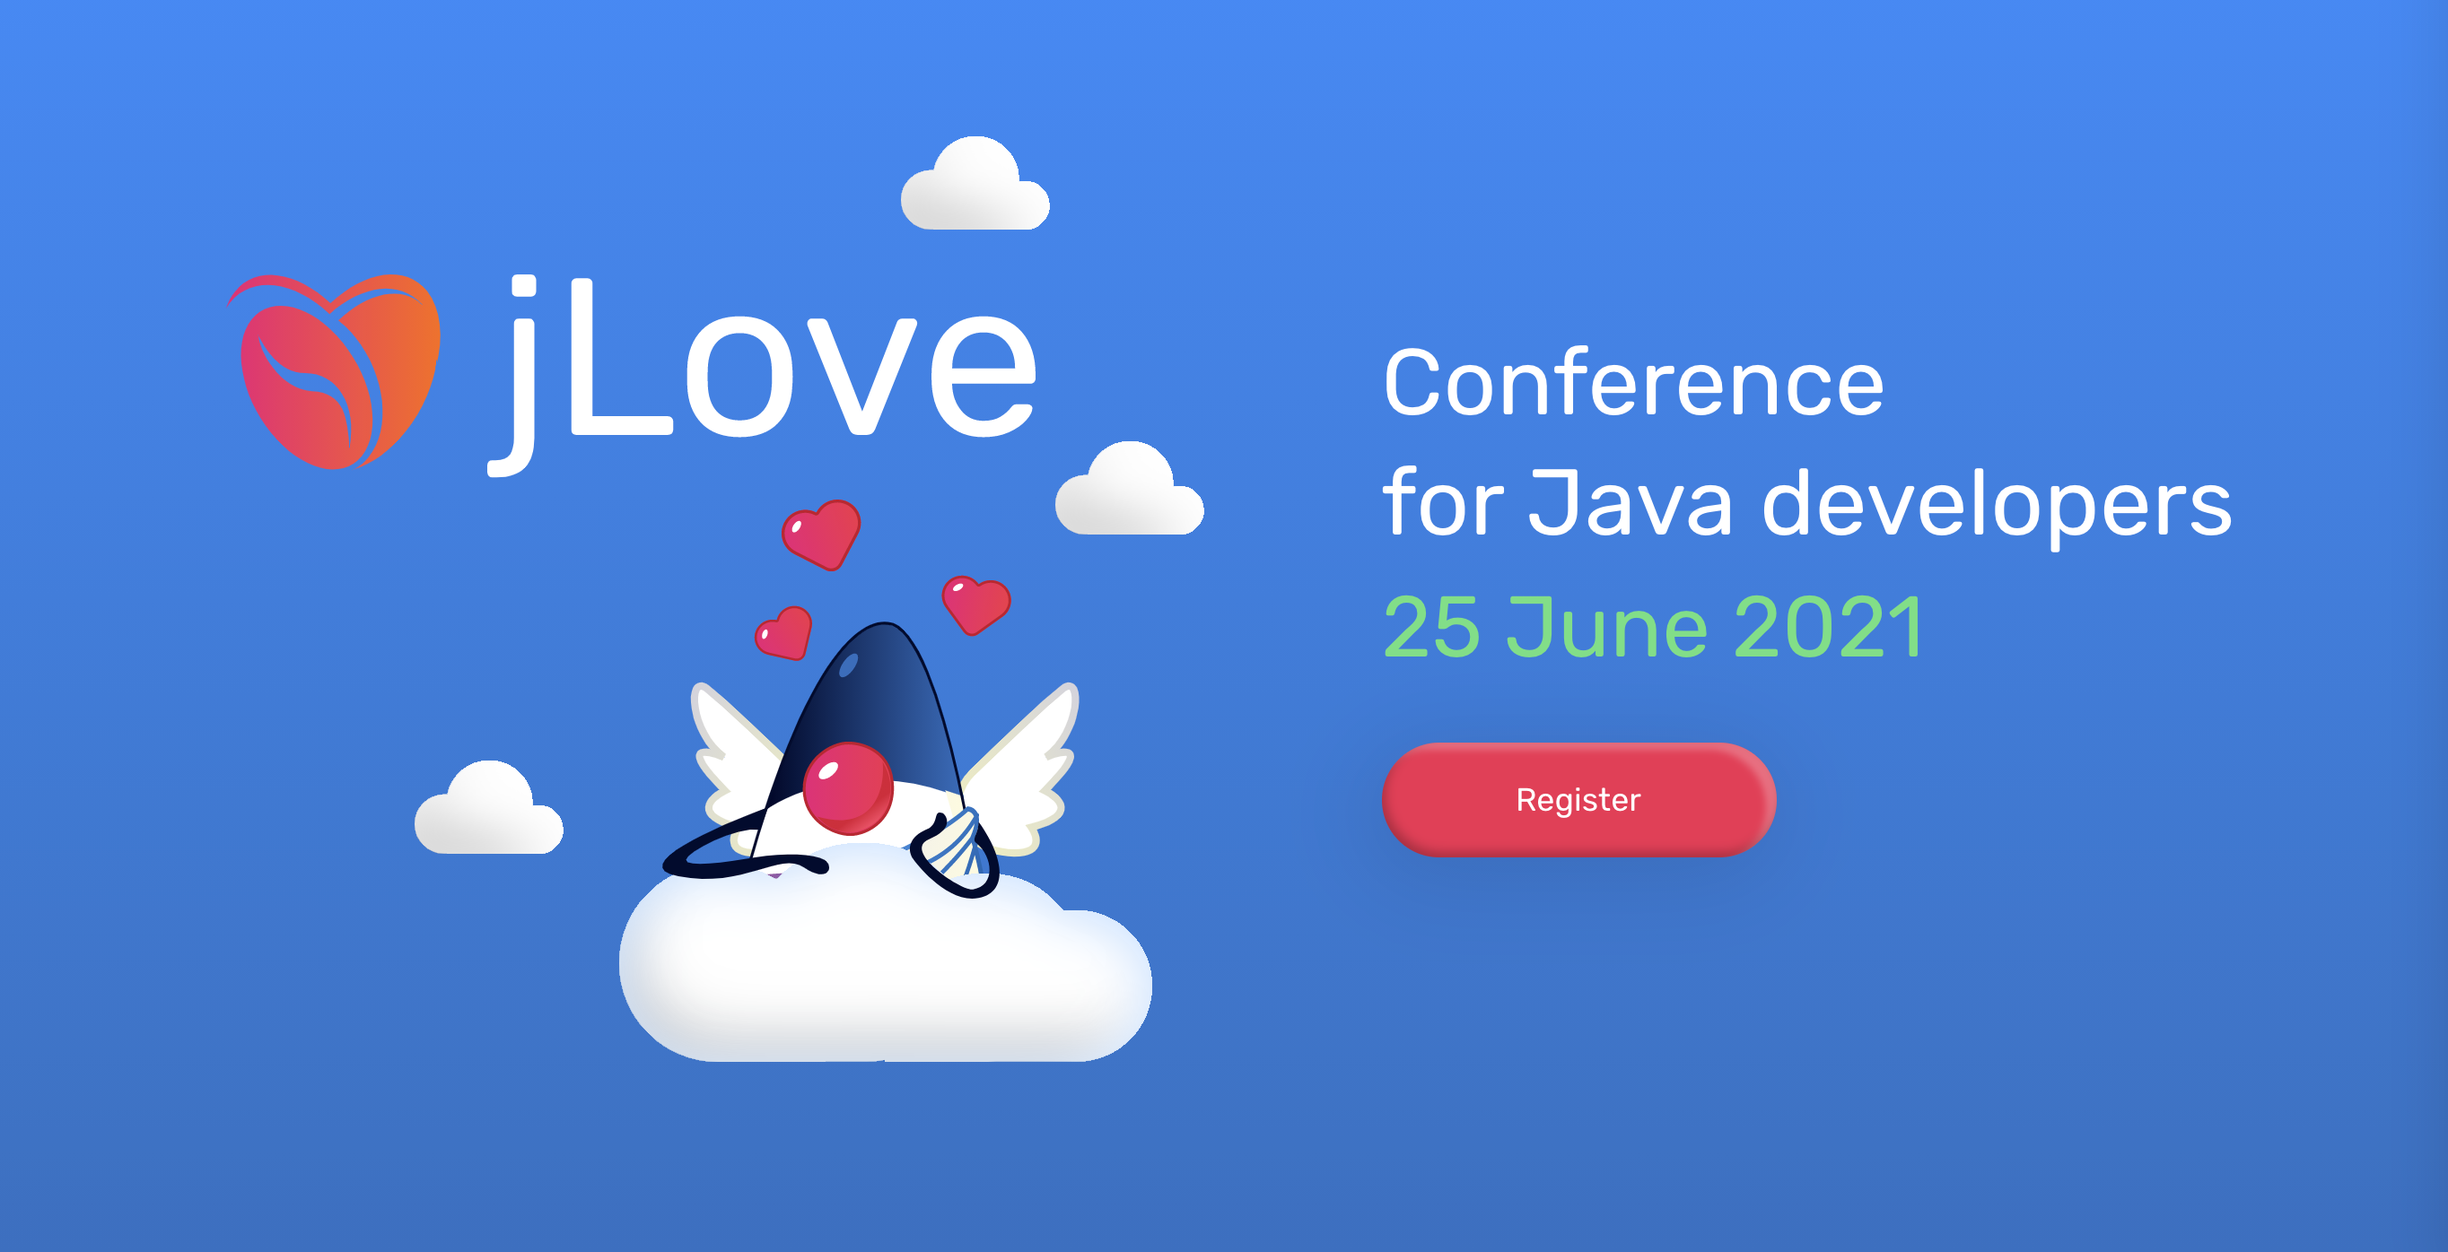
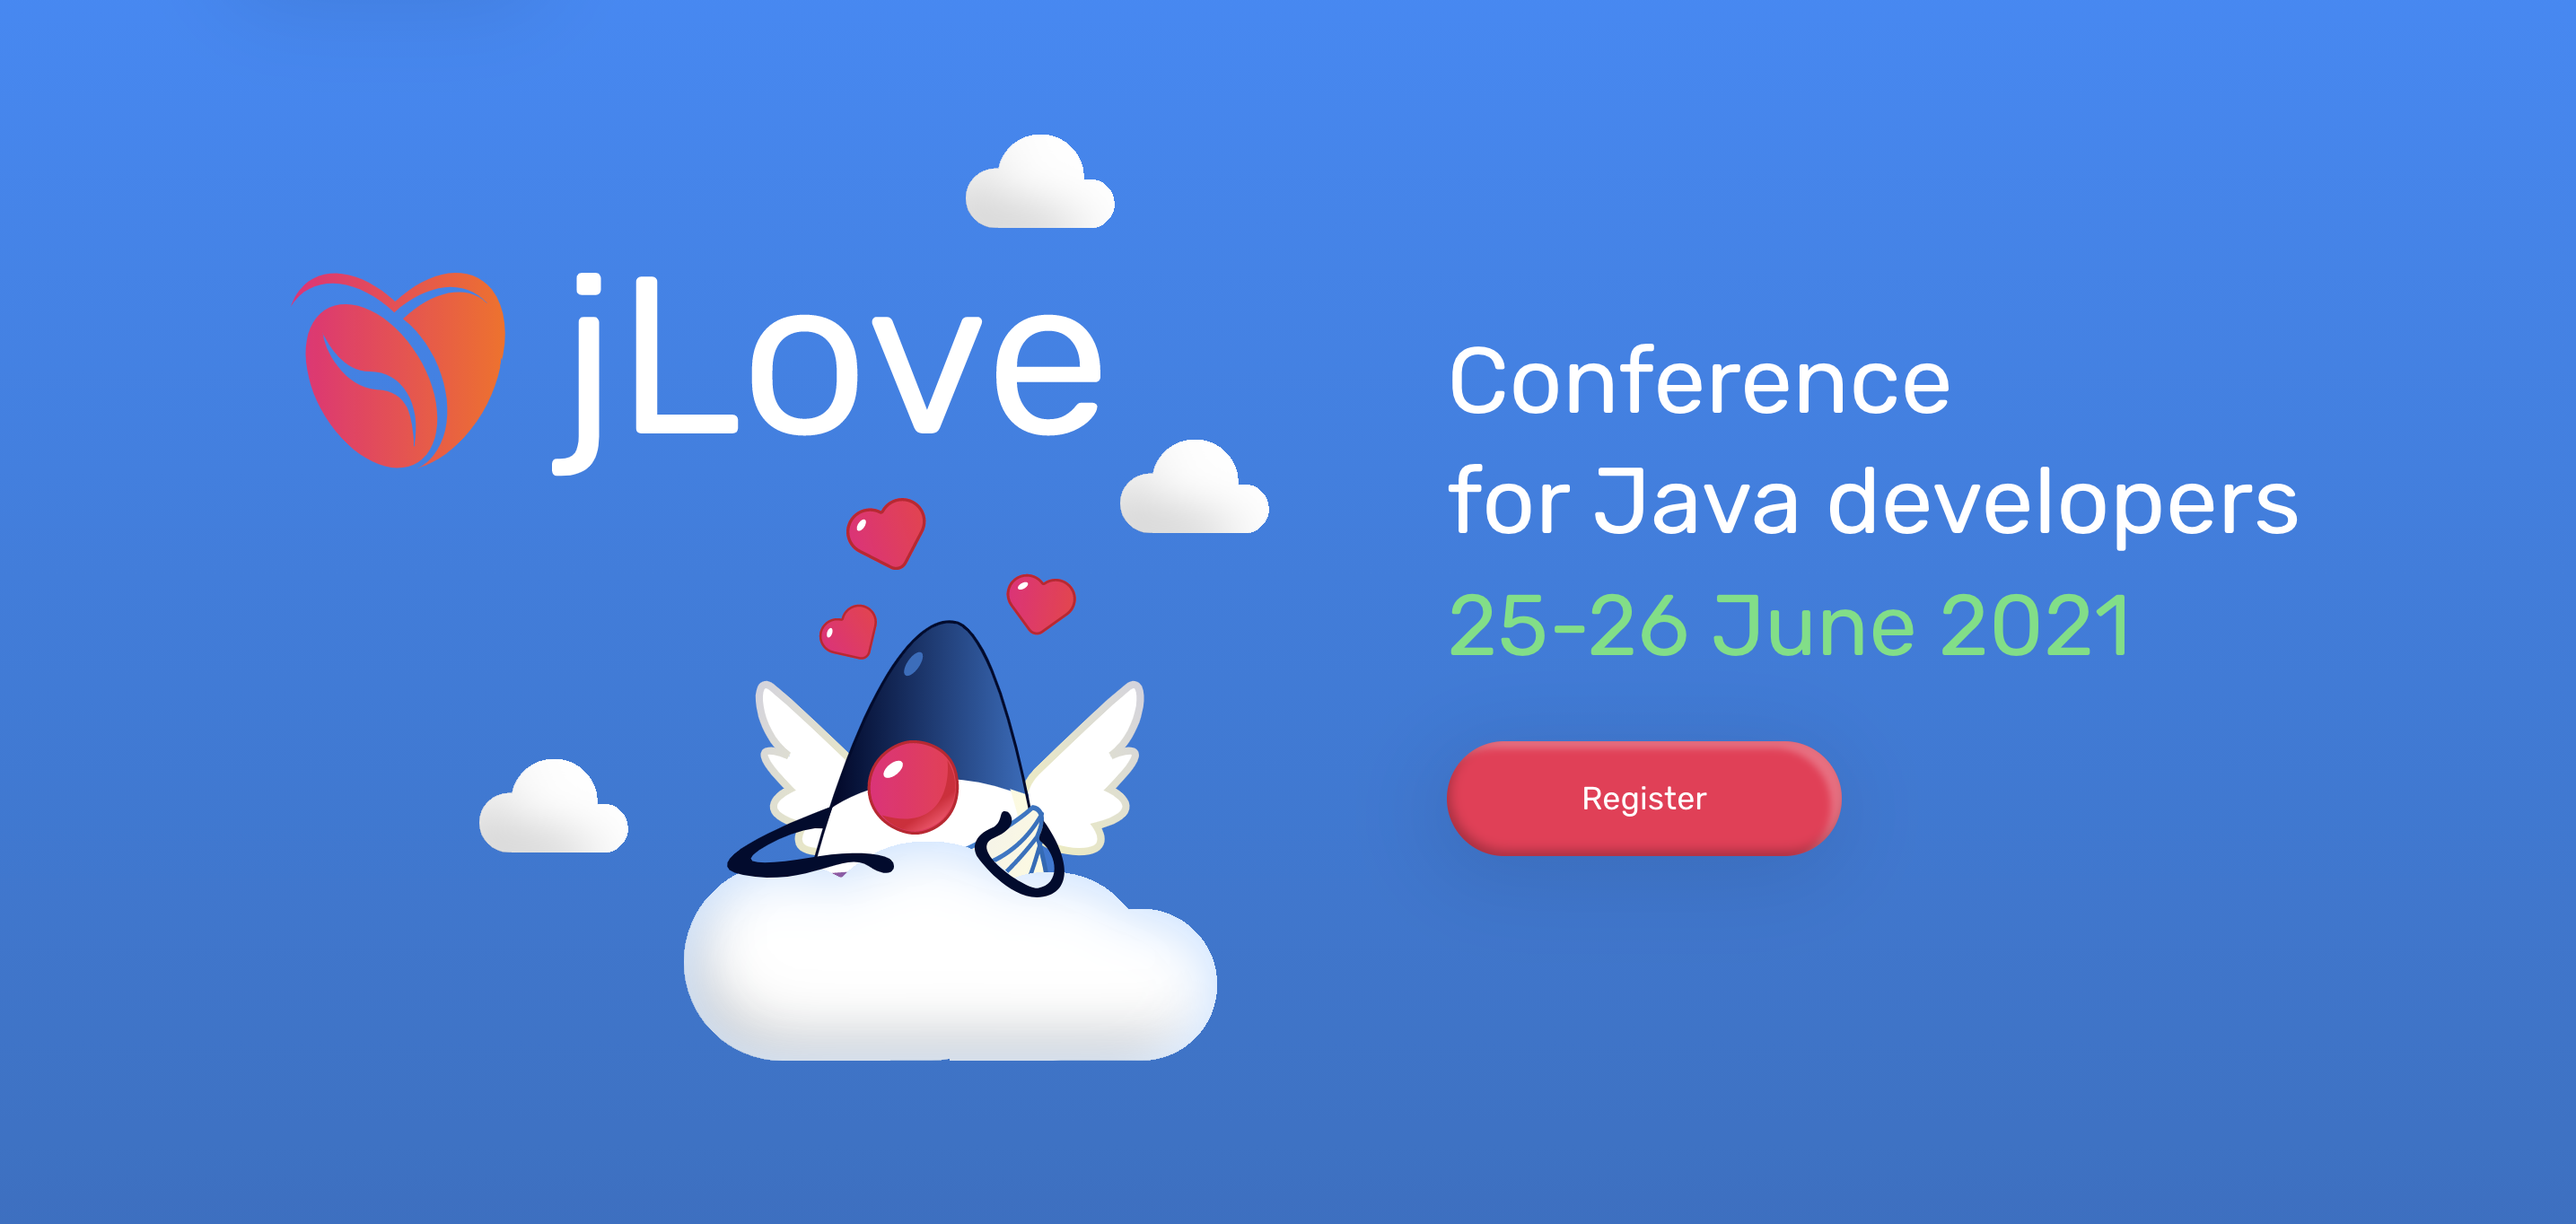
JDK Migration from 9 to 16 - Rodrigo Graciano and Neha Sardana - June 2021

diff --git a/sections/cjug.md b/sections/cjug.md
@@ -1,9 +1,9 @@
 ## Chicago Java Users Group
 ---
 
-#### May 20, 2021
-### A Comparative Review on Microservices Frameworks
-### with Hendrik Ebbers and Karsten Thoms
+#### June 10, 2021
+### JDK Migration from 9 to 16
+### by Rodrigo Graciano and Neha Sardana
 <div style="background-color: white; margin-top: 30px;">
 	<img src="images/cjug.gif" style="border: none; box-shadow: none;"/>
 </div>
@@ -51,17 +51,10 @@
 ### CJUG is a Community Partner of the following events:
 
 * Ongoing:  Virtual JUG - North America (https://vjug.us)
-* May 26-27: JFrog SwampUp 2021 (https://swampup.jfrog.com)
-<br/>
-* June 8-10: TDC 2021 (https://thedevconf.com/tdc/2021/connections/trilha-data-internacional)
-* June 9: J4K (https://j4k.io)
-* June 25: jLove (https://jLove.konfy.care)
-  
---section--
-## JFrog swampUP 2021 (Virtual)
-FREE Conference Pass for CJUG members:  http://jfrog.co/swampUP_Meetups
 
-<img src="images/jfrog_2021_swampup.png" style="border:none; box-shadow:none; margin: 30px; background:white;"/>
+<br/>
+
+* June 25 & 26: jLove (https://jLove.konfy.care)
 
 --section--
 ## J4K 2021 (Virtual): (https://j4k.io)
@@ -77,8 +70,7 @@ CJUG Conference Pass promo code:  CJUG
 --section--
 ## Upcoming Meetups and Events
 
-* June 8: Java Migration from 9 to 16 (NYJavaSIG & GS-JUG - Rodrigo & Neha)
-* June (last week): Lightning Talks! (start thinking of your topics!)
+* June 24: Lightning Talks! (https://www.meetup.com/ChicagoJUG/events/277655569/)
 <br/>
 
 * September: Java 16 & 17 (Wroslaw/Poland, Piotr Przybył - Software Garden)
@@ -88,8 +80,8 @@ CJUG Conference Pass promo code:  CJUG
 ## Upcoming Meetups and Events 
 #### (_exact date not all confirmed yet_)
 
-* Java Performance (Kirk Pepperdine - Microsoft/JClarity)
 * TBD topic (Dr. Venkat Subramaniam)
+* Java Performance (Kirk Pepperdine - Microsoft/JClarity)
 * Security topic (Brian Vermeer - Snyk & Netherlands JUG)
 * MicroStream (Markus Kett - Java in-memory persistence)
 
@@ -109,7 +101,6 @@ CJUG Conference Pass promo code:  CJUG
  https://www.linkedin.com/groups/4691739/
 
 <img src="images/cjug-linkedinGroup-qrcode.png" style="border:none; box-shadow:none; margin: 30px; background:white;"/>
-
 
 --section--
 

diff --git a/sections/speaker.md b/sections/speaker.md
@@ -1,19 +1,20 @@
-## Our Special Speakers !!
+## Our Special Speakers (JUG Leaders from the NorthEast!!
 
-### Hendrik Ebbers (Twitter: @hendrikEbbers)
-- Co-Founder at Karakun AG, Germany 
-- Founder and leader of the JUG in Dortmund
-- International speakers - user groups, conferences, etc
-- Author of JavaFX book in 2014 "Mastering JavaFX 8 Controls"
-- JavaOne Rockstar, Java Champion
-- JSR Expert group member
+### Rodrigo Graciano  (Twitter: @rodrigograciano)
+- Principal Software Engineer at a major financial institution in NY 
+- Senior member and a leader of the NYJavaSIG, the JUG with the longest history in USA
+- Conference and meetup speaker
+- Blogger
+- Visit Rodrigo's website:  https://graciano.dev
 
 --section--
 
-### Karsten Thoms (Twitter: @kthoms)
-- Senior Software Engineer at Karakun AG, Germany
-- Xtext team member
-- Eclipse platform committer
-- Eclipse & Open Source Evangelist
+### Neha Sardana (Twitter: @nehasardana09)
+- Senior Software Engineer/Architect for Java based apps for over a decade
+- Vice President at Bank of NY Mellon
+- A leader of the Garden State JUG (New Jersey)
+- 8 years of financial services in both Europe and the U.S.
+- A technologist and an OSS enthusiast, passionate about Open Source
+- MicroProfile Community participant and contributor
 
 

diff --git a/sections/sponsors.md b/sections/sponsors.md
@@ -3,6 +3,16 @@
 <img src="images/jfrog.png" style="border:none; box-shadow:none; margin: 30px; background:white;"/>
 
 --section--
+## JFrog Cloud Subscription - FREE!
+
+<img src="images/jfrog_2021_cloud.png" style="border:none; box-shadow:none; margin: 30px; background:white;"/>
+
+--section--
+## JFrog 
+
+<img src="images/jfrog_2021_gold.png" style="border:none; box-shadow:none; margin: 30px; background:white;"/>
+
+--section--
 # Event Sponsor
 
 <img src="images/ibm.jpg" style="border:none; box-shadow:none; margin: 30px; background:white;"/>
